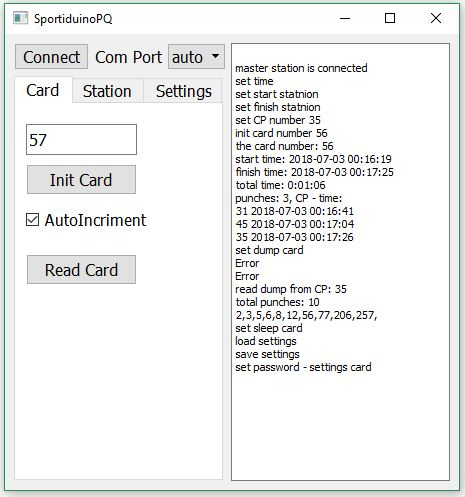
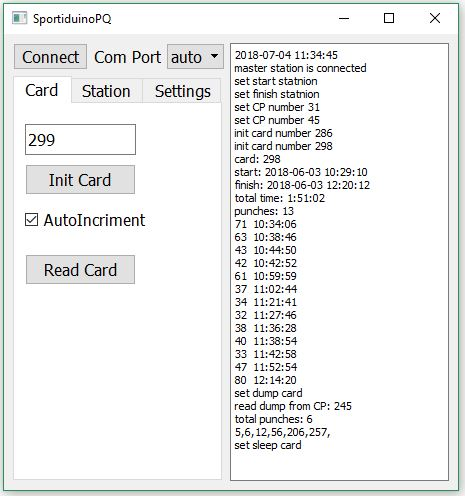
0.2.0

Changed region(s): [[0.0, 0.0, 0.9935, 0.998], [0.7226, 0.7863, 0.7527, 0.8468]]

diff --git a/SportiduinoPQ.py b/SportiduinoPQ.py
@@ -1,55 +1,50 @@
 import sys
 sys.path.append('..')
-from sportiduino import Sportiduino
-import time
-from datetime import datetime, timedelta
-import serial
 import os.path
-
-
-
+import time
+import datetime
+import serial
+import json
+import design
+from sportiduino import Sportiduino
+from datetime import datetime, timedelta
 from PyQt5 import QtWidgets
 
-import design
 
 class App(QtWidgets.QMainWindow, design.Ui_MainWindow):
     def __init__(self):
         super().__init__()
         self.setupUi(self)
 
-        
+        self.log =''
+        self.readData = []
+        self.dumpData = []
         self.connected = False
-        self.Connec.clicked.connect(self.Connec_clicked)
-
+        self.AutoIn = False
+        self.CardNum = '0'
+        self.StatNum = '0'
         self.OldPass.setText('0')
         self.NewPass.setText('0')
         
+        self.initTime = datetime.now()
+        self.addText('{:%Y-%m-%d %H:%M:%S}'.format(self.initTime))
+
+        self.Connec.clicked.connect(self.Connec_clicked)
         self.ReadCard.clicked.connect(self.ReadCard_clicked)
-
         self.InitCard.clicked.connect(self.InitCard_clicked)
-        self.CardNum = '0'     
         self.AutoIncriment.stateChanged.connect(self.changeAuto)
-        self.AutoIn = False
-
         self.SetTime.clicked.connect(self.SetTime_clicked)
-
         self.SetNum.clicked.connect(self.SetNum_clicked)
-        self.StatNum = '0'
-
         self.SetStart.clicked.connect(self.SetStart_clicked)
         self.SetFinish.clicked.connect(self.SetFinish_clicked)
         self.CheckSt.clicked.connect(self.CheckSt_clicked)
         self.ClearSt.clicked.connect(self.ClearSt_clicked)
-
         self.LogCard.clicked.connect(self.LogCard_clicked)
         self.ReadLog.clicked.connect(self.ReadLog_clicked)
         self.SleepCard.clicked.connect(self.SleepCard_clicked)
-
         self.PassCard.clicked.connect(self.PassCard_clicked)
         self.SaveSet.clicked.connect(self.SaveSet_clicked)
         self.LoadSet.clicked.connect(self.LoadSet_clicked)
-
-        self.log =''
 
     def Connec_clicked(self):
 
@@ -80,34 +75,47 @@ class App(QtWidgets.QMainWindow, design.Ui_MainWindow):
         if (self.connected == False):
             self.addText('\nmaster station is not connected')
             return
-        
+
+        readBuffer = ''
         try:
             data = self.sportiduino.read_card(timeout = 0.5)
             self.sportiduino.beep_ok()
-            print(data)
-            self.addText('\nthe card number: '+str(data['card_number']))
+            readBuffer +='\ncard: {}'.format(data['card_number'])
             try:
-                self.addText('\nstart time: '+str(data['start']))
+                readBuffer +='\nstart: {}'.format(data['start'])
+                startT = data['start']
+                data['start'] = int(data['start'].timestamp())
             except:
                 pass
 
             try:
-                self.addText('\nfinish time: '+str(data['finish']))
-                self.addText('\ntotal time: '+str(data['finish']-data['start']))
+                readBuffer +='\nfinish: {}'.format(data['finish'])
+                readBuffer +='\ntotal time: {}'.format(data['finish']-startT)
+                data['finish'] = int(data['finish'].timestamp())
             except:
                 pass
 
             try:
                 punches = data['punches']
-                self.addText('\npunches: '+str(len(punches))+', CP - time:')
+                bufferPunch = []
+                readBuffer +='\npunches: {}'.format(len(punches))
                 for punch in punches:
-                    self.addText('\n'+str(punch[0])+' '+str(punch[1]))
+                    readBuffer +='\n{}  {:%H:%M:%S}'.format(punch[0],punch[1])
+                    kort = (punch[0], int(punch[1].timestamp()))
+                    bufferPunch.append(kort)
+                data['punches']=bufferPunch
+                    
             except:
                 pass
 
-            
-            
-            
+            del data['page6']
+            del data['page7']
+            self.readData.append(data)
+            dataFile = open(os.path.join('data','readData{:%Y%m%d%H%M%S}.json'.format(self.initTime)),'w')
+            json.dump(self.readData, dataFile)
+            dataFile.close()
+            self.addText(readBuffer)
+                        
         except:
             self.sportiduino.beep_error()
             self.addText('\nError')
@@ -252,22 +260,28 @@ class App(QtWidgets.QMainWindow, design.Ui_MainWindow):
         if (self.connected == False):
             self.addText('\nmaster station is not connected')
             return
-        
+
+        readBuffer = ''
         try:
             data = self.sportiduino.read_backup()
             self.sportiduino.beep_ok()
             try:
-                self.addText('\nread dump from CP: {}'.format(str(data['cp'])))
+                readBuffer += '\nread dump from CP: {}'.format(data['cp'])
             except:
                 pass
             try:
                 cards = data['cards']
-                self.addText('\ntotal punches: {}\n'.format(str(len(cards))))
+                readBuffer += '\ntotal punches: {}\n'.format(len(cards))
                 for i in range(0,len(cards),1):
-                    self.addText(str(cards[i])+',')
+                    readBuffer += '{},'.format(cards[i])
             except:
                 pass
-            
+
+            self.dumpData.append(data)
+            dumpFile = open(os.path.join('data','dumpData{:%Y%m%d%H%M%S}.json'.format(self.initTime)),'w')
+            json.dump(self.dumpData, dumpFile)
+            dumpFile.close()
+            self.addText(readBuffer)
         except:
             self.addText('\nError')
 
@@ -367,15 +381,9 @@ class App(QtWidgets.QMainWindow, design.Ui_MainWindow):
             self.addText('\nload settings')
         except:
             self.addText('\nsettings are missing')
-        
-        
-        
+
     def SaveSet_clicked(self):
-        try:
-            os.mkdir('data')
-        except Exception:
-            pass
-        
+                
         sets = open(os.path.join('data','settings.txt'),'w')
         sets.write(self.WorkTime.currentText()+'\n')
         sets.write(self.StartFinish.currentText()+'\n')
@@ -387,31 +395,24 @@ class App(QtWidgets.QMainWindow, design.Ui_MainWindow):
         self.addText('\nsave settings')
 
     def addText(self,text):
+
         print(text)
         self.log += text
-        self.textBrowser.setPlainText(self.log)
+        self.textBrowser.setPlainText(self.log[-100000:])
         self.textBrowser.verticalScrollBar().setValue(self.textBrowser.verticalScrollBar().maximum())
         logFile.write(text)
-
+        
         
 if __name__ == '__main__':
     
-    buffer = 1
-    time=datetime.today()
-    timeLog=[]
-    timeLog.append(time.year)
-    timeLog.append(time.month)
-    timeLog.append(time.day)
-    timeLog.append(time.hour)
-    timeLog.append(time.minute)
-    timeLog.append(time.second)
-
     try:
         os.mkdir('log')
+        os.mkdir('data')
     except Exception:
         pass
 
-    logFile = open(os.path.join('log','logfile{}.txt'.format(timeLog)),'w',buffer)
+    buffer = 1
+    logFile = open(os.path.join('log','logFile{:%Y%m%d%H%M%S}.txt'.format(datetime.now())),'w',buffer)
 
     app = QtWidgets.QApplication(sys.argv)
     window = App()

diff --git a/README.ru.md b/README.ru.md
@@ -1,6 +1,6 @@
 # sportiduinoPQ
 
-### версия [последнего релиза](https://github.com/alexandervolikov/SportiduinoPQ/releases) 0.1.1
+### версия [последнего релиза](https://github.com/alexandervolikov/SportiduinoPQ/releases) 0.2.0
 
 В последнем релизе можно скачать программу с exe файлом для Windows систем, установка не требуется. Либо запускать программу из под python (требуется установка PyQt).
 

diff --git a/README.md b/README.md
@@ -1,6 +1,6 @@
 # sportiduinoPQ
 
-### version of [last release](https://github.com/alexandervolikov/SportiduinoPQ/releases) 0.1.1
+### version of [last release](https://github.com/alexandervolikov/SportiduinoPQ/releases) 0.2.0
 
 In the latest release, you can download the program with the exe file for Windows systems, the installation is not required. Or run the program from under python (requires installing PyQt).
 

diff --git a/CHANGELOG.md b/CHANGELOG.md
@@ -1,3 +1,9 @@
+## [0.2.0] - 2018-07-04
+### Add save data to json
+- save data from card to json format file
+- save data from dump card to json format file
+- some fixes
+
 ## [0.1.1] - 2018-07-03
 ### Fix set time bag
 
